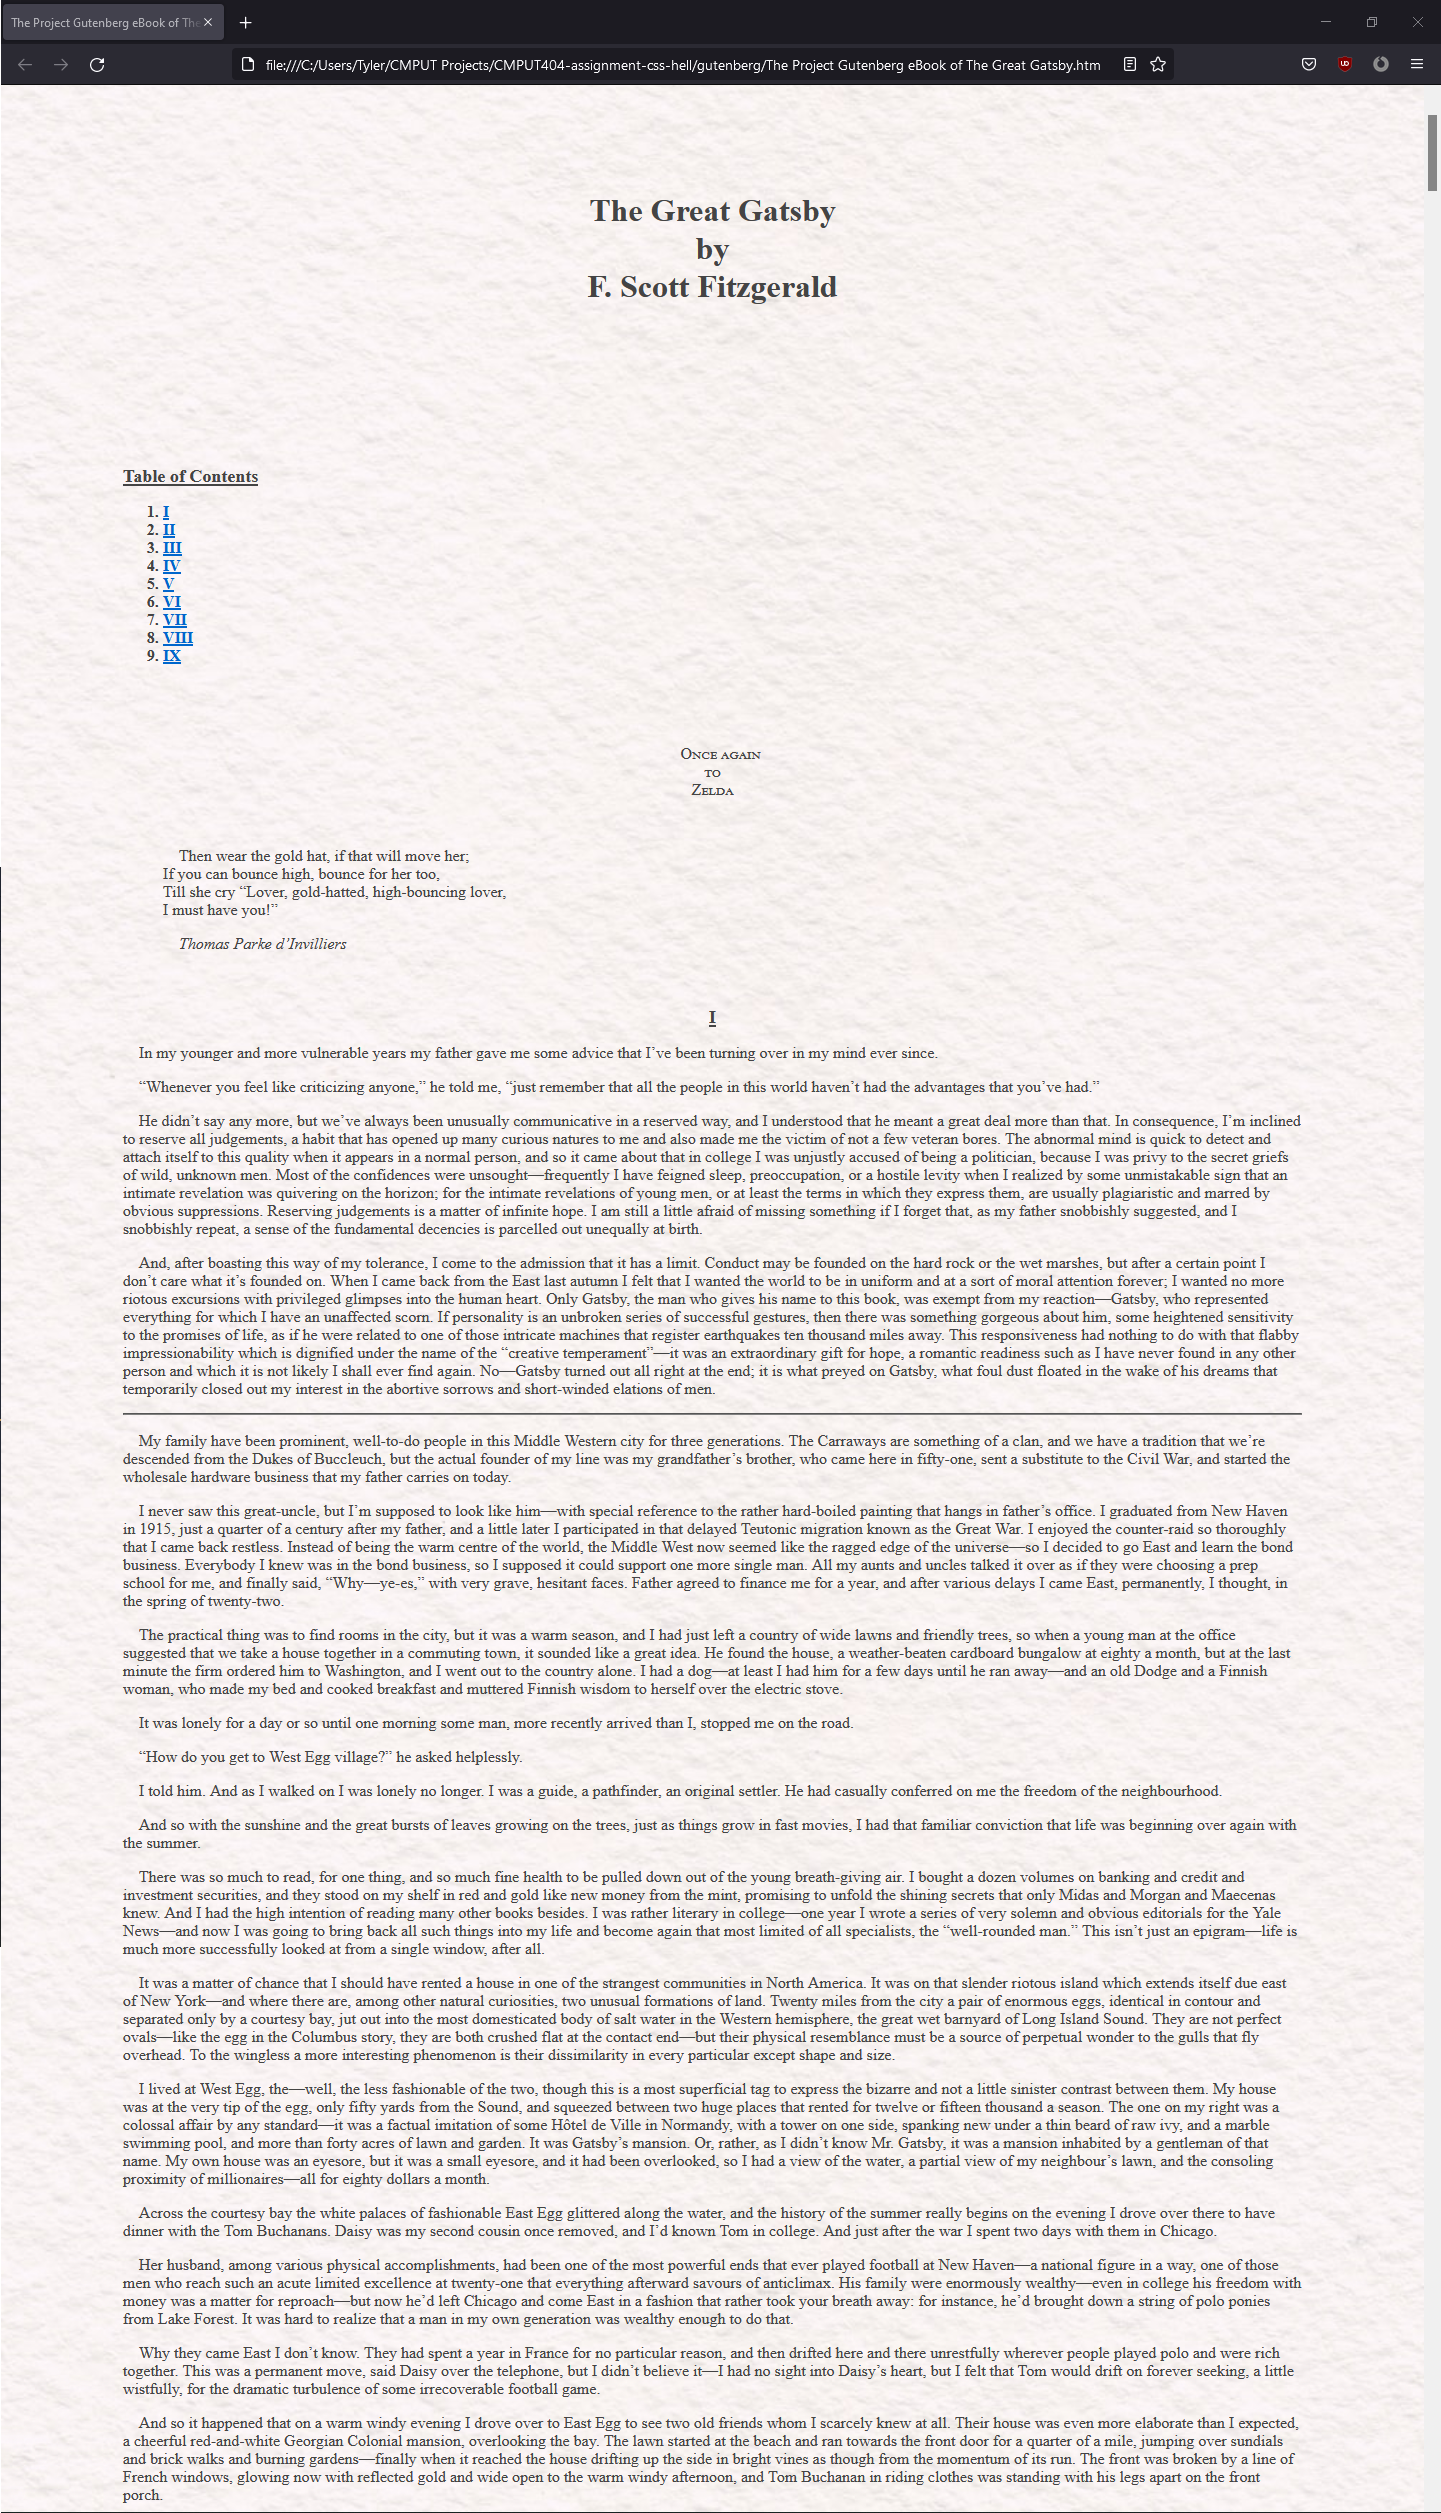
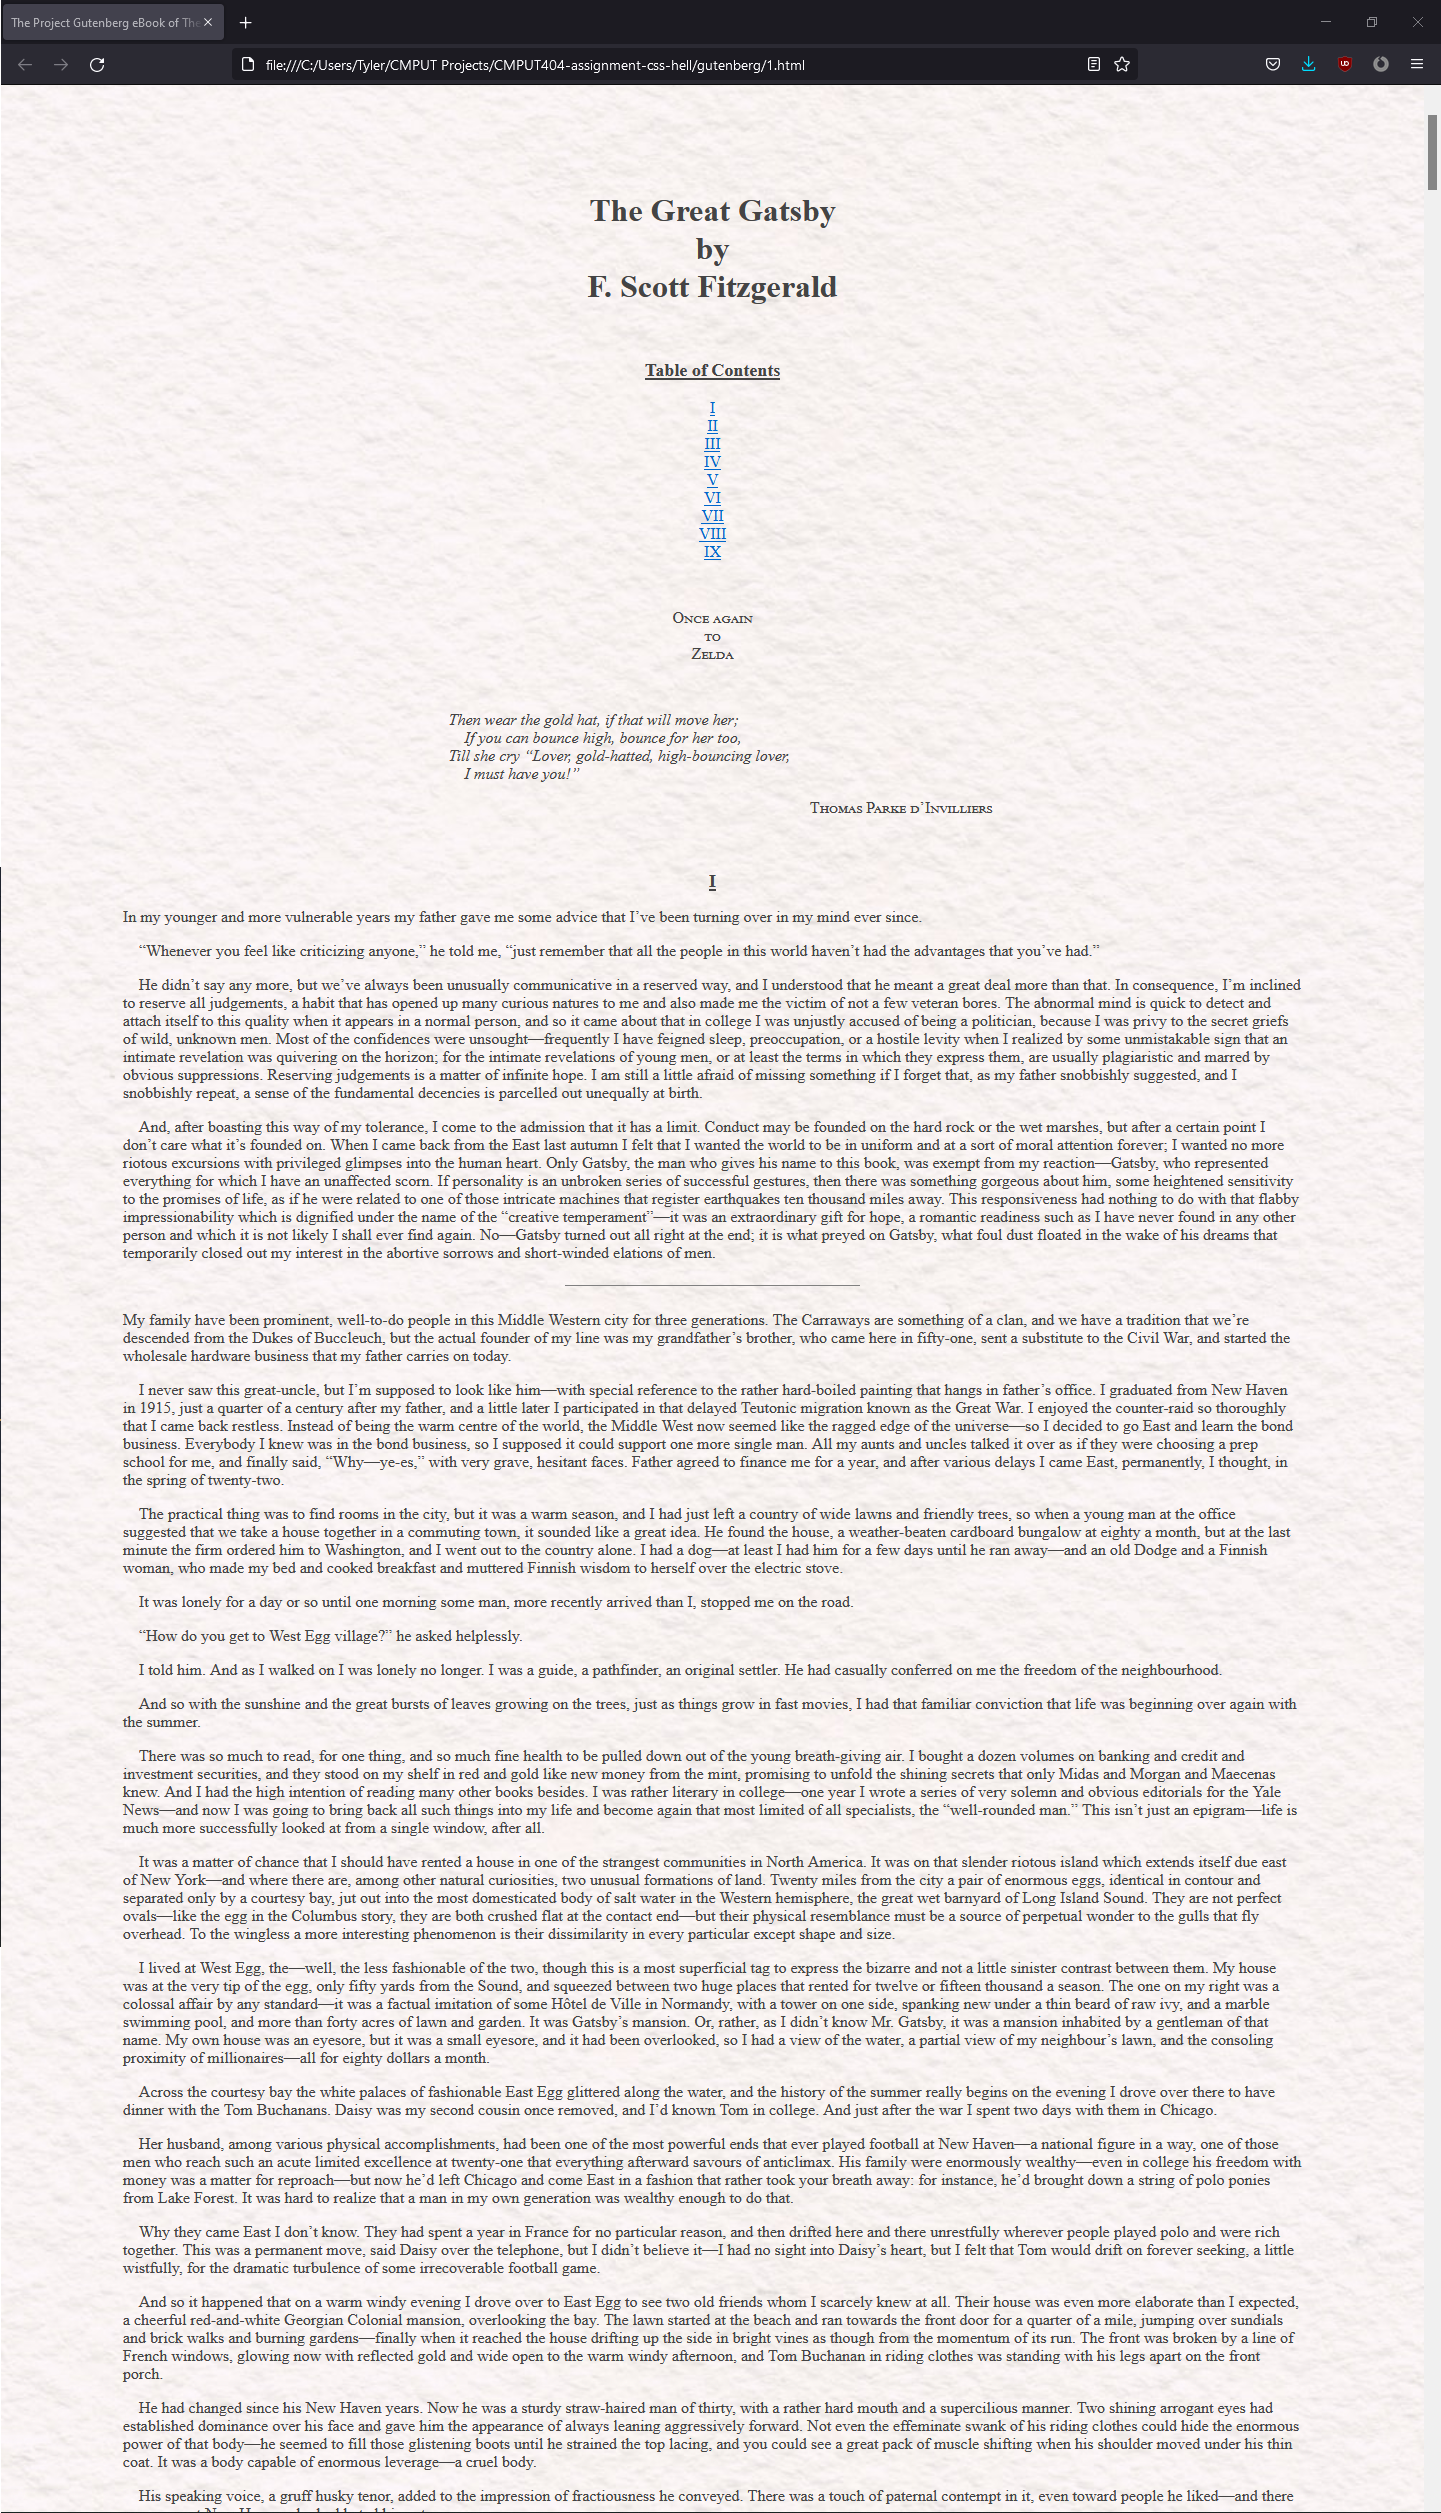
Clean up HTML, simplify css, update images

diff --git a/gutenberg/gutenberg.css b/gutenberg/gutenberg.css
@@ -9,7 +9,6 @@ body {
 
 h1 {
     margin-top: 5em;
-    margin-bottom: 5em;
     text-align: center;
     font-family:'Times New Roman';
     font-size: xx-large;
@@ -24,17 +23,6 @@ h2 {
     margin-left:auto; 
     margin-right:auto; 
     text-decoration: underline;
-}
-
-.toc h2{
-    margin-top: 5em;
-    text-align: left;
-}
-
-.toc ol{
-    text-align: left;
-    font-weight: bold;
-    margin-bottom: 5em;
 }
 
 h3,h4,h5,h6 {
@@ -53,30 +41,18 @@ p {
     margin-bottom: 1em
 }
 
-/* For Great Gatsby */
-.dedication{
-    text-indent: none;
-    font-variant: small-caps;
-    text-align: center;
-    margin: 3em auto;
-    max-width: 80%;
-    }
-
-/* Worst Joke uses "ce" for divs it wants centered. */
-.ce{
-    text-align: center;
-}
-
-/* Huckleberry uses class "fig" to denote it's images. */
-.fig {
+/* 
+Huckleberry uses class "fig" to denote it's images. 
+Would be awful to go through an fix all the styling to the images.
+Instead compensating through margin-left
+*/
+img {
     display: block; 
     overflow: hidden;
-    margin: 0 auto;  
-    max-height: 20%;
-    max-width: 20%;
-    height: max-content;
-    width: max-content;
-
+    margin-left: 60%;
+    margin-right: auto;
+    max-width: 50%;
+    max-height: auto; 
 }
 
 

diff --git a/gutenberg/2.html b/gutenberg/2.html
@@ -6,15 +6,8 @@
   <link rel="icon" href="https://www.gutenberg.org/files/67373/67373-h/images/cover.jpg" type="image/x-cover">
   <link href="gutenberg.css" rel="stylesheet" type="text/css"/>
   <style>
-   /* body { margin-left:8%; margin-right:8%; }
-   p { text-indent:1.15em; margin-top:1em; margin-bottom:0.1em; text-align:justify; }
-   h1 { text-align:center; font-weight:normal; page-break-before: always;
-        font-size:1.4em; margin-top:2em; margin-bottom:1em; margin-left:auto; margin-right:auto; }
-   h2 { text-align:center; font-weight:normal; page-break-before: always;
-        font-size:1.0em; margin-top:3em; margin-bottom:1em; margin-left:auto; margin-right:auto; }
    .ce { text-align:center; text-indent:0; margin-top:0; margin-bottom:0; margin-left:auto; margin-right:auto; }
-   h1 { text-align:center; font-weight:normal; font-size:1.4em; margin-top:1em; }
-   .tn { background-color:linen; font-size:0.8em; border:1px solid silver; margin-top:1.8em; margin-left:8%; margin-bottom:1em; width:80%; padding:0.4em 2%; } */
+   .tn { background-color:linen; font-size:0.8em; border:1px solid silver; margin-top:1.8em; margin-left:8%; margin-bottom:1em; width:80%; padding:0.4em 2%; }
   </style>
  
 </head>

diff --git a/gutenberg/3.html b/gutenberg/3.html
@@ -5,11 +5,7 @@
 <title>The Project Gutenberg eBook of Adventures of Huckleberry Finn, By Mark Twain</title>
 <link rel="coverpage" href="https://www.gutenberg.org/files/76/76-h/images/cover.jpg">
 <link href="gutenberg.css" rel="stylesheet" type="text/css"/>
-<style type="text/css" xml:space="preserve">
-
-/* body { margin-left: 10%; margin-right: 10%; background:#faebd0; text-align:justify}
-
-H1,H2,H3,H4,H5,H6 { text-align: center; margin-left: 15%; margin-right: 15%; }
+<style type="text/css" >
 
 hr  { width: 50%; text-align: center;}
 
@@ -26,9 +22,9 @@ p.center  {text-align: center;
            margin-top: 1em;
            margin-bottom: 1em; }
 
-div.fig    { display:block; margin:0 auto; text-align:center; }
+/* div.fig    { display:block; margin:0 auto; text-align:center; } */
 
-pre        { font-style: italic; font-size: 90%; margin-left: 10%;} */
+pre        { font-style: italic; font-size: 90%; margin-left: 10%;}
 
 </style>
 

diff --git a/gutenberg/1.html b/gutenberg/1.html
@@ -5,17 +5,7 @@
 <title>The Project Gutenberg eBook of The Great Gatsby</title>
 <link rel="coverpage" href="https://www.gutenberg.org/files/64317/64317-h/images/cover.jpg">
 <link href="gutenberg.css" rel="stylesheet" type="text/css"/>
-
-<!-- body{
-margin-left: 20%;
-margin-right: 20%;
-text-align: justify;
-}
-
-p{
-margin: 0;
-text-indent: 1em;
-}
+<style>
 
 hr{
 border: none;
@@ -23,13 +13,6 @@ border-top: 1px solid;
 height: 0;
 margin: 1.5em auto;
 width: 25%;
-}
-
-h1,
-h2{
-font-variant: small-caps;
-text-align: center;
-margin: 3em 0;
 }
 
 p.continued,
@@ -130,7 +113,7 @@ padding-left: 3em;
 font-style: italic;
 margin: 3em auto;
 max-width: 40em;
-} -->
+}
 </style>
 </head>
 <body>
